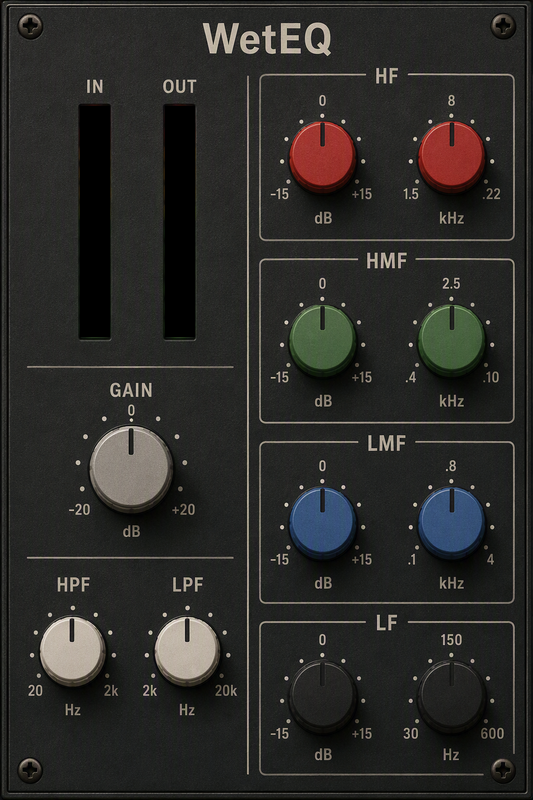
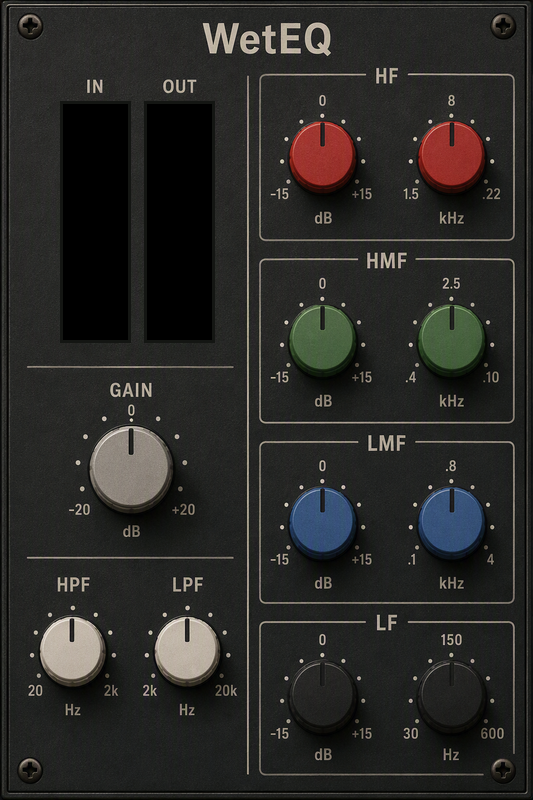
Meter each channel: L and R columns for IN and OUT

Changed region(s): [[0.2702, 0.125, 0.4203, 0.4375], [0.0901, 0.125, 0.2402, 0.4375]]

diff --git a/WetEQ/source/weteqprocessor.cpp b/WetEQ/source/weteqprocessor.cpp
@@ -50,10 +50,14 @@ tresult PLUGIN_API WetEQProcessor::setActive(TBool state)
     if (state)
     {
         engine.reset();
-        inputPeak = 0.0f;
-        outputPeak = 0.0f;
-        oldInputMeter = 0.0f;
-        oldOutputMeter = 0.0f;
+        inputPeakL = 0.0f;
+        inputPeakR = 0.0f;
+        outputPeakL = 0.0f;
+        outputPeakR = 0.0f;
+        oldInputMeterL = 0.0f;
+        oldInputMeterR = 0.0f;
+        oldOutputMeterL = 0.0f;
+        oldOutputMeterR = 0.0f;
     }
     return AudioEffect::setActive(state);
 }
@@ -157,12 +161,18 @@ tresult PLUGIN_API WetEQProcessor::process(Vst::ProcessData& data)
     float* outR = output.channelBuffers32[1];
 
     for (int32 i = 0; i < data.numSamples; ++i)
-        updatePeak(std::max(std::abs(inL[i]), std::abs(inR[i])), inputPeak);
+    {
+        updatePeak(std::abs(inL[i]), inputPeakL);
+        updatePeak(std::abs(inR[i]), inputPeakR);
+    }
 
     engine.processStereo(inL, inR, outL, outR, data.numSamples);
 
     for (int32 i = 0; i < data.numSamples; ++i)
-        updatePeak(std::max(std::abs(outL[i]), std::abs(outR[i])), outputPeak);
+    {
+        updatePeak(std::abs(outL[i]), outputPeakL);
+        updatePeak(std::abs(outR[i]), outputPeakR);
+    }
 
     //--- meters -----------------------------------------------------------
     // Same scheme as WetDelay: push through outputParameterChanges only when
@@ -184,8 +194,10 @@ tresult PLUGIN_API WetEQProcessor::process(Vst::ProcessData& data)
             }
         };
 
-        sendMeter(kInputMeter, inputPeak.load(), oldInputMeter);
-        sendMeter(kOutputMeter, outputPeak.load(), oldOutputMeter);
+        sendMeter(kInputMeterL, inputPeakL.load(), oldInputMeterL);
+        sendMeter(kInputMeterR, inputPeakR.load(), oldInputMeterR);
+        sendMeter(kOutputMeterL, outputPeakL.load(), oldOutputMeterL);
+        sendMeter(kOutputMeterR, outputPeakR.load(), oldOutputMeterR);
     }
 
     output.silenceFlags = 0;

diff --git a/WetEQ/source/weteqcontroller.cpp b/WetEQ/source/weteqcontroller.cpp
@@ -165,10 +165,14 @@ tresult PLUGIN_API WetEQController::initialize(FUnknown* context)
     addSteppedFreq(kLFFreqParam, u"LF Freq", kFreqSteps, kLFMin, kLFMax, kFreqSteps / 2);
 
     // Meter feeds. Read-only so a host never tries to automate them.
-    parameters.addParameter(STR16("Input Meter"), nullptr, 0, 0,
-                            Vst::ParameterInfo::kIsReadOnly, kInputMeter);
-    parameters.addParameter(STR16("Output Meter"), nullptr, 0, 0,
-                            Vst::ParameterInfo::kIsReadOnly, kOutputMeter);
+    parameters.addParameter(STR16("Input Meter L"), nullptr, 0, 0,
+                            Vst::ParameterInfo::kIsReadOnly, kInputMeterL);
+    parameters.addParameter(STR16("Input Meter R"), nullptr, 0, 0,
+                            Vst::ParameterInfo::kIsReadOnly, kInputMeterR);
+    parameters.addParameter(STR16("Output Meter L"), nullptr, 0, 0,
+                            Vst::ParameterInfo::kIsReadOnly, kOutputMeterL);
+    parameters.addParameter(STR16("Output Meter R"), nullptr, 0, 0,
+                            Vst::ParameterInfo::kIsReadOnly, kOutputMeterR);
 
     return result;
 }

diff --git a/WetEQ/source/weteqprocessor.h b/WetEQ/source/weteqprocessor.h
@@ -41,12 +41,16 @@ protected:
     EQEngine engine;
     EQEngine::Settings pending;
 
-    // Peak meters. The panel has one IN and one OUT strip, so each follows the
-    // louder of the two channels.
-    std::atomic<float> inputPeak{0.0f};
-    std::atomic<float> outputPeak{0.0f};
-    float oldInputMeter = 0.0f;
-    float oldOutputMeter = 0.0f;
+    // Peak meters, one per channel per bus: the panel has a left and a right
+    // column for IN and for OUT.
+    std::atomic<float> inputPeakL{0.0f};
+    std::atomic<float> inputPeakR{0.0f};
+    std::atomic<float> outputPeakL{0.0f};
+    std::atomic<float> outputPeakR{0.0f};
+    float oldInputMeterL = 0.0f;
+    float oldInputMeterR = 0.0f;
+    float oldOutputMeterL = 0.0f;
+    float oldOutputMeterR = 0.0f;
 
     static constexpr float kMeterDecay = 0.9995f;
 

diff --git a/WetEQ/source/weteqcids.h b/WetEQ/source/weteqcids.h
@@ -38,12 +38,15 @@ enum WetEQParams : Steinberg::Vst::ParamID
     kLFGainParam  = 9,
     kLFFreqParam  = 10,   // 30 Hz .. 600 Hz
 
-    // Output-only, for the two LED strips. The panel shows one IN and one OUT
-    // meter, so each follows the louder of the two channels.
-    kInputMeter   = 11,
-    kOutputMeter  = 12,
+    // Output-only, for the LED strips. Each bus has a left and a right column,
+    // so an imbalance between the channels is visible instead of being hidden
+    // behind a max() of the two.
+    kInputMeterL  = 11,
+    kInputMeterR  = 12,
+    kOutputMeterL = 13,
+    kOutputMeterR = 14,
 
-    kParamCount   = 13
+    kParamCount   = 15
 };
 
 //------------------------------------------------------------------------
